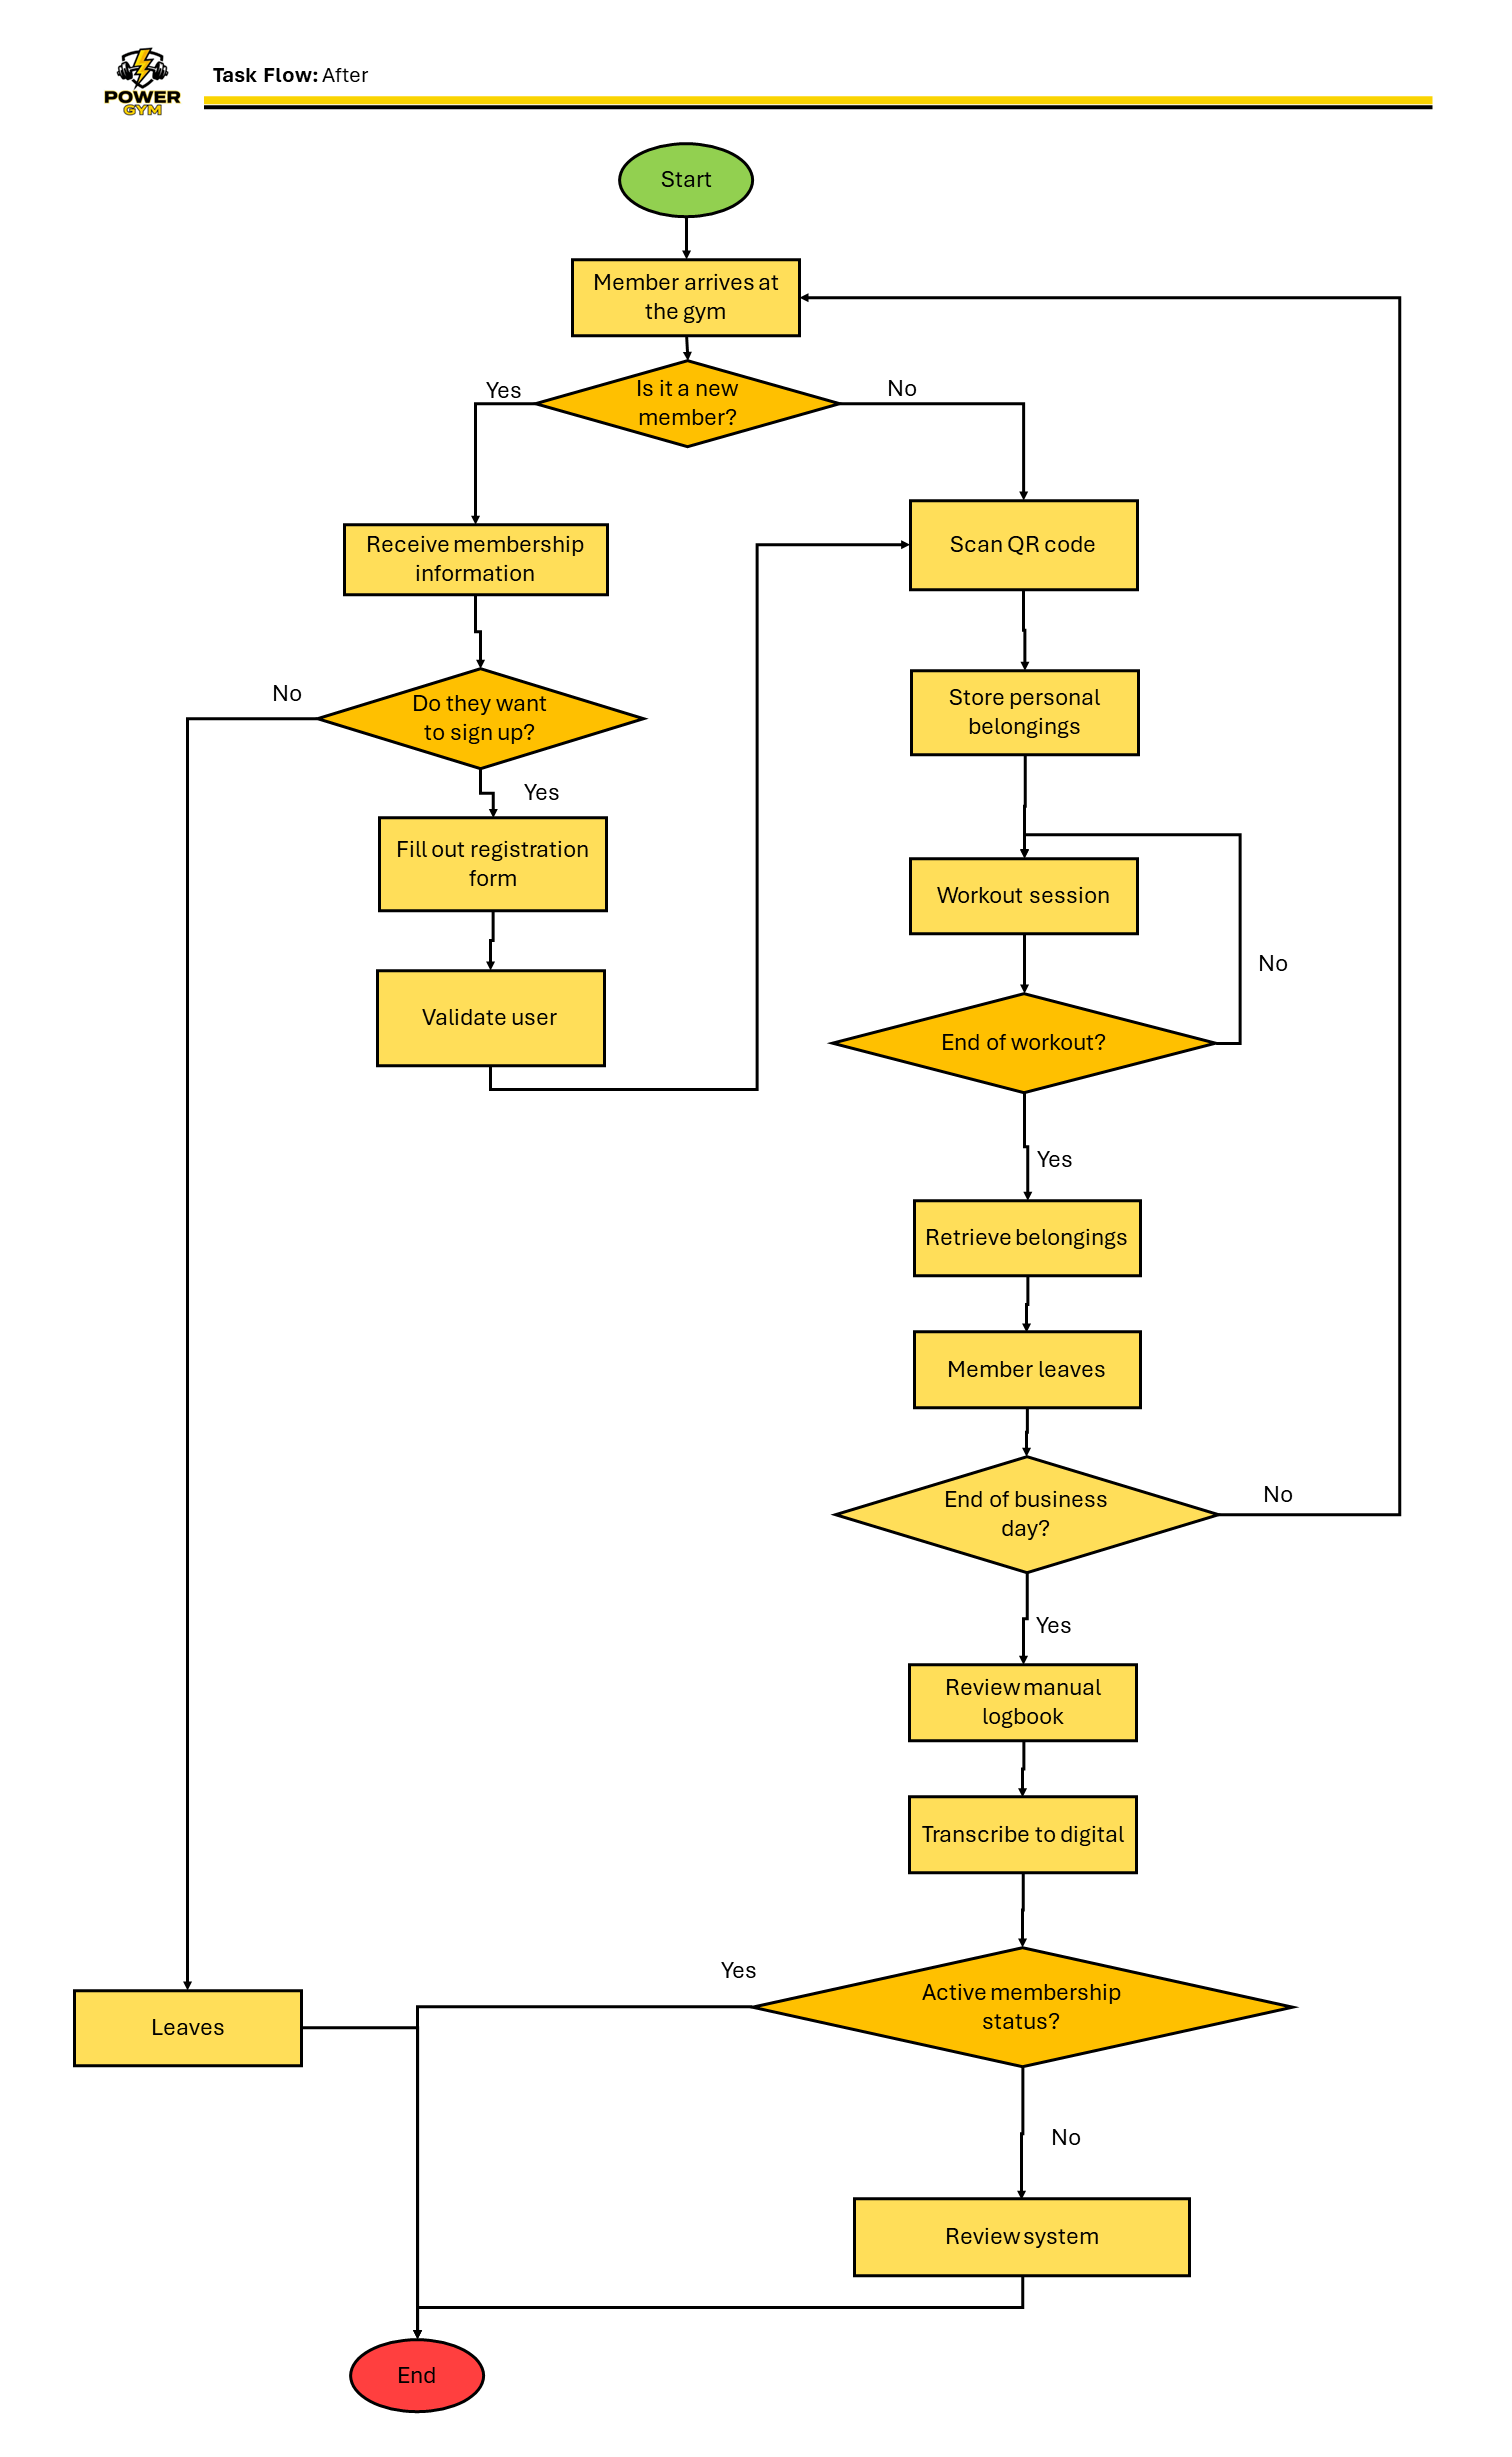
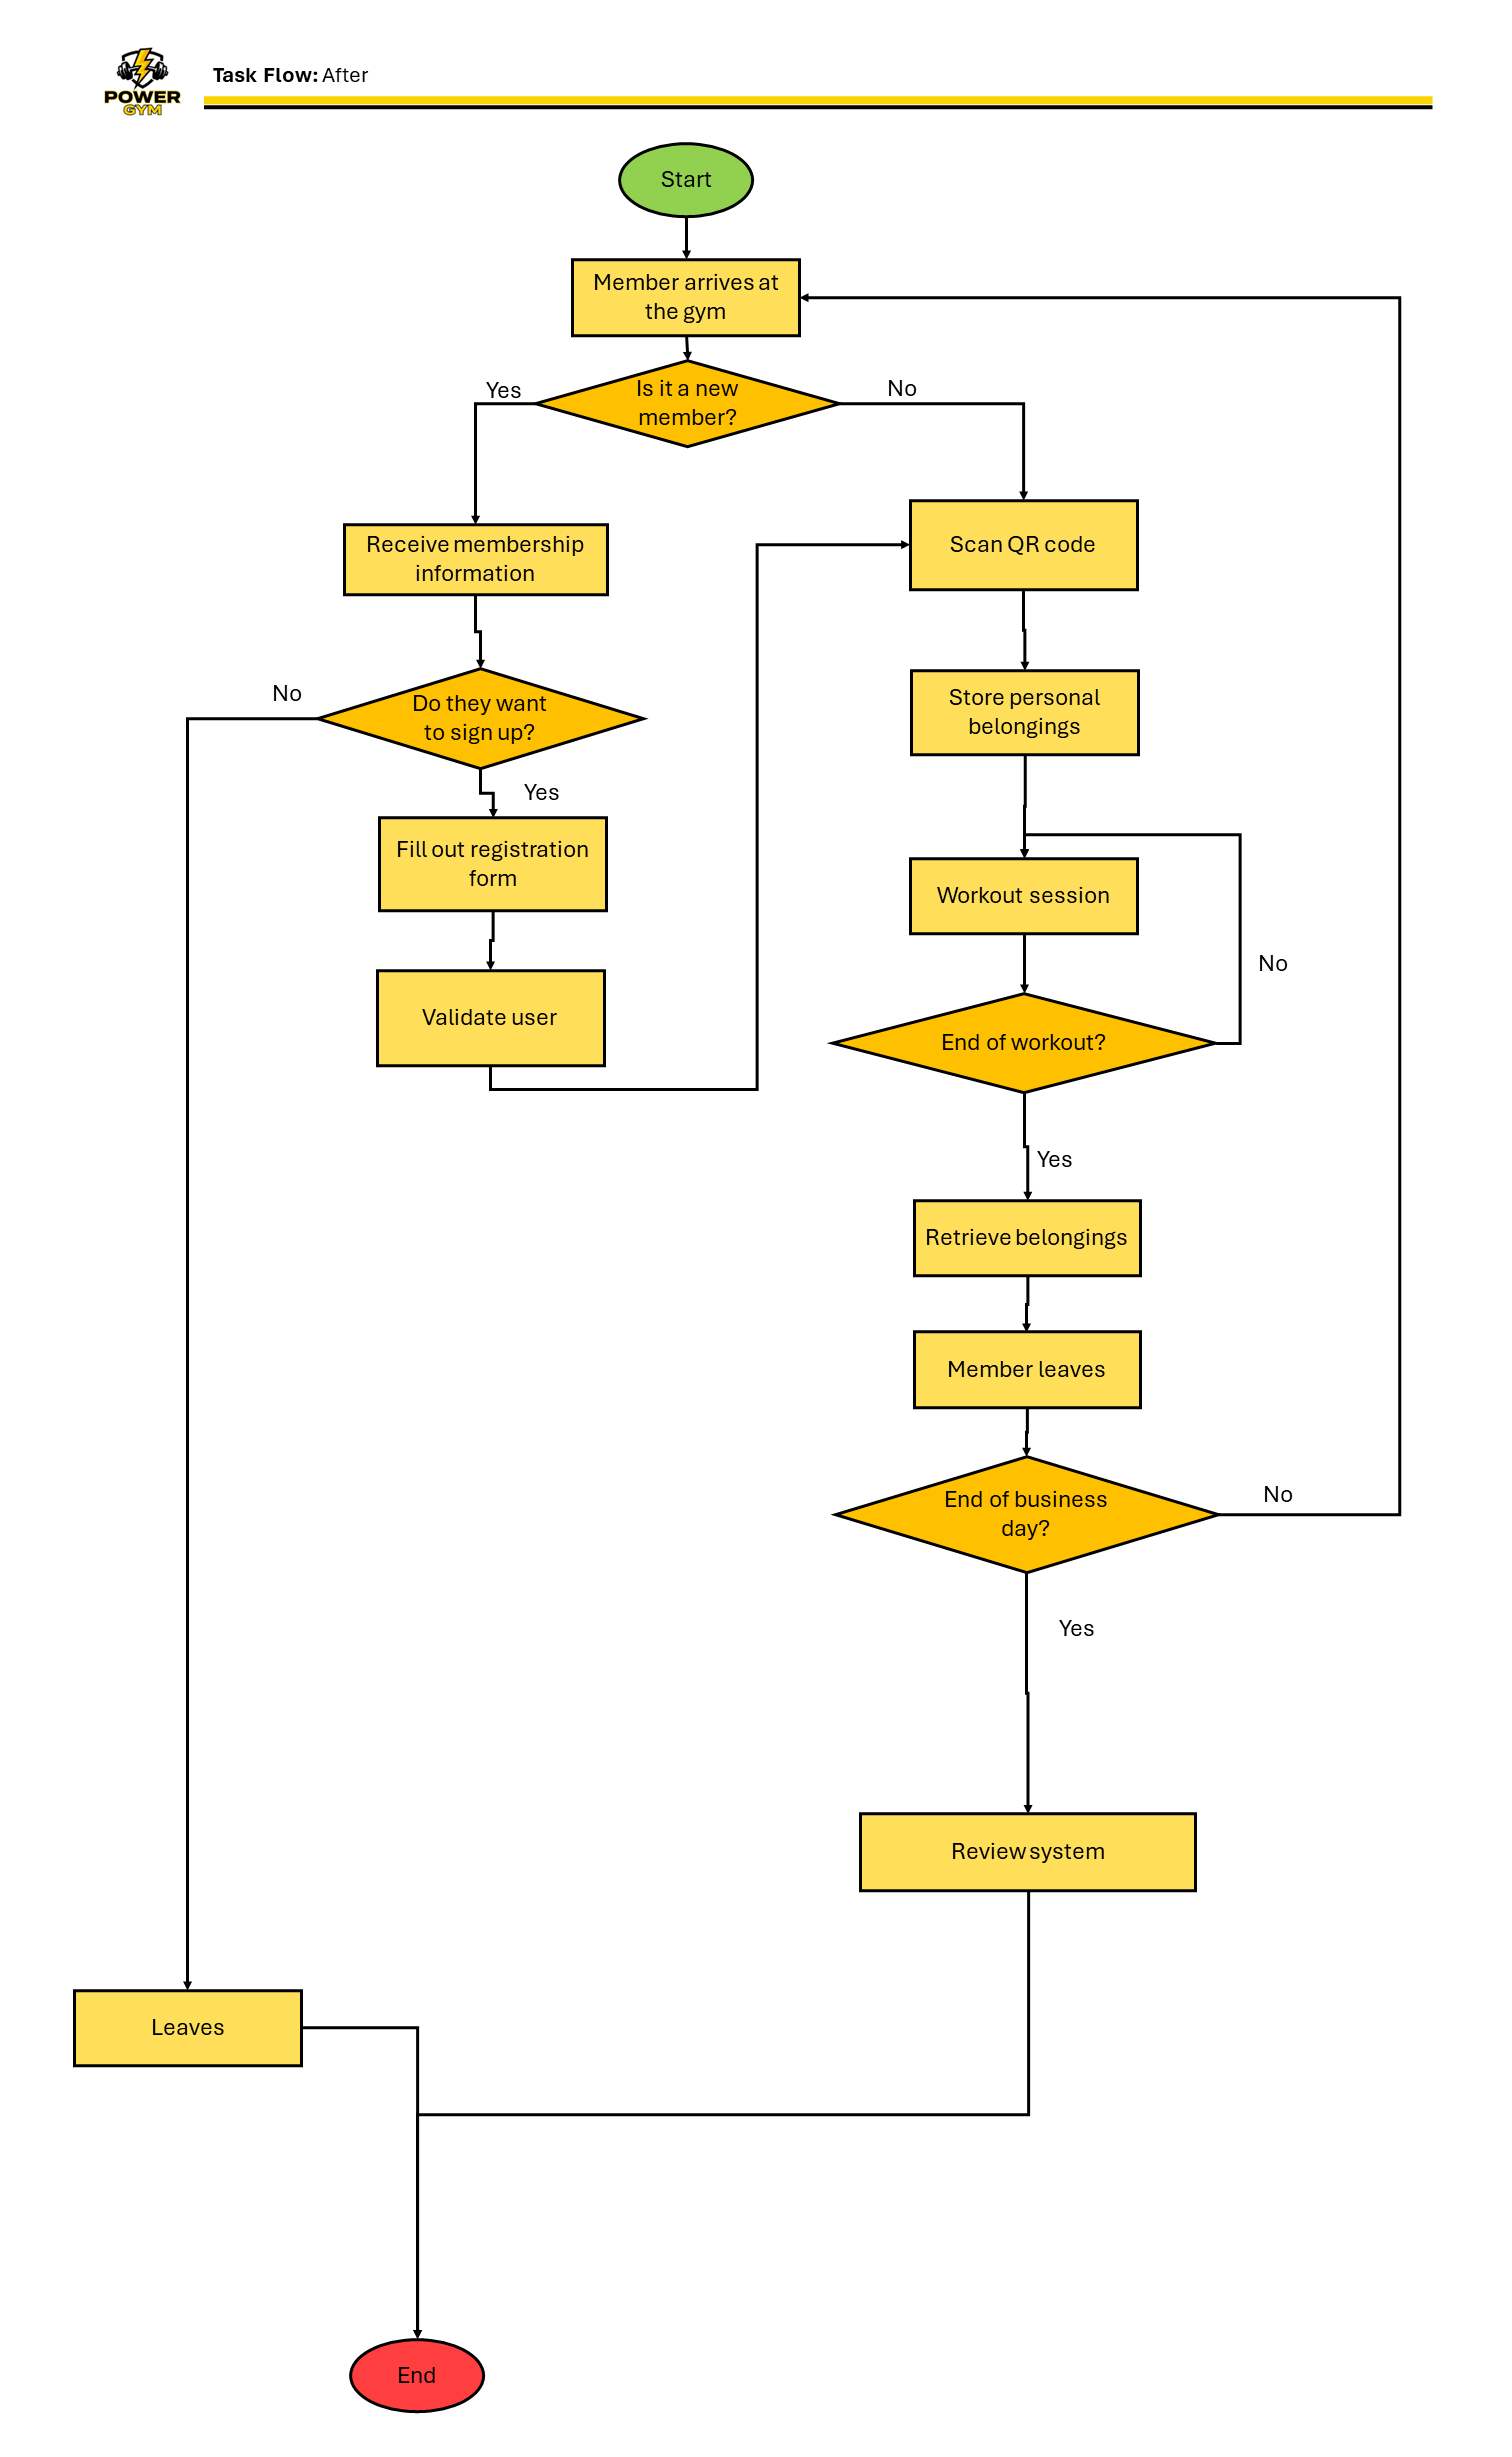
flow analysis

Changed region(s): [[0.4974, 0.5877, 0.8393, 0.928]]

diff --git a/index.html b/index.html
@@ -59,64 +59,102 @@
 
     <!-- Contenido dentro del Modal -->
     <div class="card-details" style="text-align: center;">
-        <p class="flow-description">Reducción de pasos críticos en el proceso de registro.</p>
+        <p class="flow-description" data-es="Flujo de tareas"    data-en="Task Flow">Task Flow</p>
         <div class="modal-flow-container">
             <div class="flow-section">
-                <h4><span class="status-dot red"></span> Current Task Flow (Legacy)</h4>
+                <h4><span class="status-dot red"></span><span data-es="Antes" data-en="Before">Before</span></h4>
                 <div class="flow-image-container">
-                    <img src="img/taskFlow-Es.png" alt="Current Task Flow">
+                    <img src="img/flows/taskFlow-Before.PNG" 
+                        data-img-es="img/flows/taskFlow-Antes.PNG" 
+                        data-img-en="img/flows/taskFlow-Before.PNG" 
+                        alt="Flow">
                 </div>
-                <p class="caption">El proceso actual cuenta con 8 pasos y múltiples puntos de fricción.</p>
+                <p class="caption"
+                    data-es="Gestión de procesos basada en registros manuales y tareas repetitivas de transcripción de datos." 
+                    data-en="Process management based on manual logs and repetitive data transcription tasks.">
+                    Process management based on manual logs and repetitive data transcription tasks.</p>
             </div>
 
             <div class="flow-divider"></div>
 
             <div class="flow-section">
-                <h4><span class="status-dot green"></span> Proposed Task Flow (Actual)</h4>
+                <h4><span class="status-dot green"></span><span data-es="Después" data-en="After">After</span></h4>
                 <div class="flow-image-container">
-                    <img src="img/paginaprincipal.png" alt="Proposed Task Flow">
+                    <img src="img/flows/taskFlow-After.PNG" 
+                        data-img-es="img/flows/taskFlow-Despues.PNG" 
+                        data-img-en="img/flows/taskFlow-After.PNG" 
+                        alt="Flow">
                 </div>
-                <p class="caption">Optimización a 4 pasos con validación automática de datos.</p>
+                 <p class="caption"
+                    data-es="Ecosistema digital optimizado con validación vía QR, eliminando la carga administrativa manual." 
+                    data-en="Optimized digital ecosystem with QR validation, eliminating manual administrative overhead.">
+                    Optimized digital ecosystem with QR validation, eliminating manual administrative overhead.</p>
             </div>
         </div>
-        <p class="flow-description">Reducción de pasos críticos en el proceso de registro.</p>
+       
+        <p class="flow-description" data-es="Flujo de Usuario: Socio del Gimnasio"    data-en="User Flow - Gym Member">User Flow - Gym Member</p>
         <div class="modal-flow-container">
             <div class="flow-section">
-                <h4><span class="status-dot red"></span> Current Task Flow (Legacy)</h4>
+                <h4><span class="status-dot red"></span><span data-es="Antes" data-en="Before">Before</span></h4>
                 <div class="flow-image-container">
-                    <img src="img/paginaprincipal.png" alt="Current Task Flow">
+                    <img src="img/flows/userFlow-Member-Before.PNG" 
+                        data-img-es="img/flows/userFlow-Member-Antes.PNG" 
+                        data-img-en="img/flows/userFlow-Member-Before.PNG" 
+                        alt="Flow">
                 </div>
-                <p class="caption">El proceso actual cuenta con 8 pasos y múltiples puntos de fricción.</p>
+                <p class="caption"
+                    data-es="Proceso offline dependiente de validación humana constante para pagos y control de acceso." 
+                    data-en="Offline process dependent on constant human validation for payments and access control.">
+                     Offline process dependent on constant human validation for payments and access control.</p>
             </div>
 
             <div class="flow-divider"></div>
 
             <div class="flow-section">
-                <h4><span class="status-dot green"></span> Proposed Task Flow (Actual)</h4>
+                <h4><span class="status-dot green"></span><span data-es="Después" data-en="After">After</span></h4>
                 <div class="flow-image-container">
-                    <img src="img/paginaprincipal.png" alt="Proposed Task Flow">
+                    <img src="img/flows/userFlow-Member-After.PNG" 
+                        data-img-es="img/flows/userFlow-Member-Despues.PNG"  
+                        data-img-en="img/flows/userFlow-Member-After.PNG" 
+                        alt="Flow">
                 </div>
-                <p class="caption">Optimización a 4 pasos con validación automática de datos.</p>
+                 <p class="caption"
+                    data-es="Automatización de procesos con validación de membresía en tiempo real y gestión de datos centralizada." 
+                    data-en="Process automation with real-time membership validation and centralized data management.">
+                   Process automation with real-time membership validation and centralized data management.</p>
             </div>
         </div>
-        <p class="flow-description">Reducción de pasos críticos en el proceso de registro.</p>
+
+        <p class="flow-description" data-es="Flujo de Usuario: Personal del Gimnasio"    data-en="User Flow - Gym Staff">User Flow - Gym Staff</p>
         <div class="modal-flow-container">
             <div class="flow-section">
-                <h4><span class="status-dot red"></span> Current Task Flow (Legacy)</h4>
+                <h4><span class="status-dot red"></span><span data-es="Antes" data-en="Before">Before</span></h4>
                 <div class="flow-image-container">
-                    <img src="img/paginaprincipal.png" alt="Current Task Flow">
+                    <img src="img/flows/userFlow-Staff-Before.PNG" 
+                        data-img-es="img/flows/userFlow-Staff-Antes.PNG" 
+                        data-img-en="img/flows/userFlow-Staff-Before.PNG" 
+                        alt="Flow">
                 </div>
-                <p class="caption">El proceso actual cuenta con 8 pasos y múltiples puntos de fricción.</p>
+                <p class="caption"
+                    data-es="Operación basada en procesos analógicos con alta carga administrativa, incluyendo transcripción manual de asistencias y avisos en pizarrón físico." 
+                    data-en="Analog-based operations with heavy administrative workload, including manual attendance tracking and physical notice boards.">
+                     Analog-based operations with heavy administrative workload, including manual attendance tracking and physical notice boards.</p>
             </div>
 
             <div class="flow-divider"></div>
 
             <div class="flow-section">
-                <h4><span class="status-dot green"></span> Proposed Task Flow (Actual)</h4>
+                <h4><span class="status-dot green"></span><span data-es="Después" data-en="After">After</span></h4>
                 <div class="flow-image-container">
-                    <img src="img/paginaprincipal.png" alt="Proposed Task Flow">
+                    <img src="img/flows/userFlow-Staff-After.PNG" 
+                        data-img-es="img/flows/userFlow-Staff-Despues.PNG" 
+                        data-img-en="img/flows/userFlow-Staff-After.PNG" 
+                        alt="Flow">
                 </div>
-                <p class="caption">Optimización a 4 pasos con validación automática de datos.</p>
+                 <p class="caption"
+                    data-es="Gestión operativa optimizada mediante una plataforma digital, automatizando el control de acceso y la comunicación de avisos en tiempo real." 
+                    data-en="Streamlined operations via a digital platform, automating access control and real-time announcement management.">
+                   Streamlined operations via a digital platform, automating access control and real-time announcement management.</p>
             </div>
         </div>
     </div>

diff --git a/script.js b/script.js
@@ -47,24 +47,32 @@ document.addEventListener('keydown', (e) => {
 function setLanguage(lang) {
     // 1. Cambiar estado visual de los botones
     document.querySelectorAll('.lang-btn').forEach(btn => btn.classList.remove('active'));
-    document.getElementById(`btn-${lang}`).classList.add('active');
+    const activeBtn = document.getElementById(`btn-${lang}`);
+    if (activeBtn) activeBtn.classList.add('active');
 
-    // 2. Cambiar todos los textos con atributos data-en/data-es
-    const elements = document.querySelectorAll('[data-en]');
-    
-    elements.forEach(el => {
-        // Cambiar Texto
-        if (el.tagName !== 'IMG') {
-            el.textContent = el.getAttribute(`data-${lang}`);
-        } 
-        // Cambiar Imágenes (si tienen el atributo definido)
-        else {
-            const newSrc = el.getAttribute(`data-${lang}`);
-            if (newSrc) el.src = newSrc;
-        }
+    // 2. Cambiar TEXTOS
+    // Buscamos elementos que tengan data-es o data-en y NO sean imágenes/iframes
+    const textElements = document.querySelectorAll('[data-es]:not(img):not(iframe)');
+    textElements.forEach(el => {
+        el.textContent = el.getAttribute(`data-${lang}`);
     });
 
-    // Opcional: Guardar preferencia en el navegador
+    // 3. Cambiar IMÁGENES
+    // Usamos data-img-es y data-img-en para mayor claridad
+    const images = document.querySelectorAll('img[data-img-es]');
+    images.forEach(img => {
+        const newSrc = img.getAttribute(`data-img-${lang}`);
+        if (newSrc) img.src = newSrc;
+    });
+
+    // 4. Cambiar PROTOTIPOS (Iframes de Figma)
+    const iframes = document.querySelectorAll('iframe[data-src-es]');
+    iframes.forEach(frame => {
+        const newSrc = frame.getAttribute(`data-src-${lang}`);
+        if (newSrc) frame.src = newSrc;
+    });
+
+    // Guardar preferencia
     localStorage.setItem('preferredLang', lang);
 }
 

diff --git a/style.css b/style.css
@@ -113,7 +113,7 @@ body {
 .card h4 {
     font-size: 1rem;
     font-weight: 600;
-    color: var(--accent); /* Color uniforme para subtítulos */
+    color: var(--bg-color); /* Color uniforme para subtítulos */
     display: flex;
     align-items: center;
     gap: 10px;
@@ -151,10 +151,9 @@ body {
     transform: translate(-50%, -50%);
     width: 95%;
     max-width: 1000px;
-    height: 80vh; /* Altura máxima del 80% de la pantalla */
+    height: 90vh; /* Altura máxima del 80% de la pantalla */
     z-index: 1000;
     cursor: default;
-    padding: 0 !important;
     
     /* CAMBIO CLAVE: Permite el scroll si el contenido es largo */
     overflow-y: auto; 
@@ -463,8 +462,10 @@ body {
 .modal-flow-container {
     display: flex;
     flex-direction: column; 
-    gap: 60px; /* Espacio generoso entre el bloque 1, 2 y 3 */
+    gap: 60px;
     width: 100%;
+    box-sizing: border-box; /* Asegura que el padding no rompa el ancho */
+    padding: 10px; /* Margen de seguridad extra */
 }
 
 .vertical-arrow {
@@ -508,7 +509,6 @@ body {
 
 .flow-image-container {
     background: #2a2a45; /* Fondo oscuro para que resalten tus capturas */
-    padding: 15px;
     border-radius: 12px;
     box-shadow: inset 0 0 10px rgba(0,0,0,0.1);
     margin-top: 10px;
@@ -1175,3 +1175,4 @@ body {
 .lang-btn:hover:not(.active) {
     background: #2a2a4e;
 }
+
